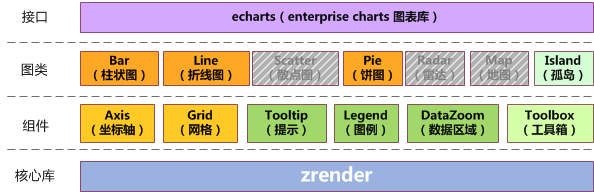
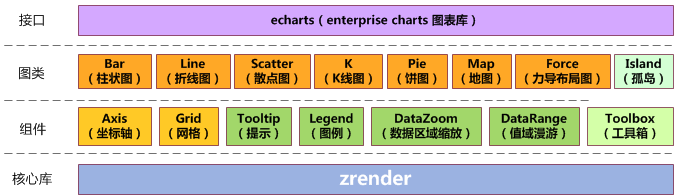
for 1.1.0 changelog update

diff --git a/index.html b/index.html
@@ -71,8 +71,8 @@
           <div class="container">
             <div class="carousel-caption">
               <h1>ECharts</h1>
-              <h6>（1.0.0）</h6>
-              <p>基于Canvas，纯Javascript图表库，提供直观，生动，可交互，可个性化定制的数据可视化图表。创新的拖拽重计算、数据视图等特性大大增强了用户体验，赋予了用户对数据进行挖掘、整合的能力。</p>
+              <h6>（1.1.0 <a href="doc/changelog.html" target="_blank" class="link">Changelog</a>）</h6>
+              <p>基于Canvas，纯Javascript图表库，提供直观，生动，可交互，可个性化定制的数据可视化图表。创新的拖拽重计算、数据视图、值域漫游等特性大大增强了用户体验，赋予了用户对数据进行挖掘、整合的能力。</p>
               <p style="text-align: right;"><strong>———— 大数据时代，重新定义数据图表的时候到了</strong></p>
             </div>
           </div>
@@ -104,7 +104,7 @@
             <img src="doc/asset/img/architecture.png" />
         </div>
         <p class="lead">ECharts (Enterprise Charts 商业产品图表库)</p>
-        <p>提供商业产品常用图表库，底层基于<a href="http://ecomfe.github.io/zrender/" target="_blank">ZRender</a>，创建了坐标系，图例，提示，工具箱等基础组件，并在此上构建出折线图（区域图）、柱状图（条状图）、饼图（环形图），同时支持任意维度的堆积和多图表混合展现。</p>
+        <p>提供商业产品常用图表库，底层基于<a href="http://ecomfe.github.io/zrender/" target="_blank">ZRender</a>，创建了坐标系，图例，提示，工具箱等基础组件，并在此上构建出折线图（区域图）、柱状图（条状图）、散点图（气泡图）、K线图、饼图（环形图）、地图、力导布局图，同时支持任意维度的堆积和多图表混合展现。</p>
         <div style="float:left;margin:10px 10px 30px 10px;"><img src="doc/asset/img/device.png" /></div>
         <div>
             <img src="doc/asset/img/explorer.png" />
@@ -118,10 +118,9 @@
             <img src="doc/asset/img/mix.jpg" />
         </div>
         <h2 class="featurette-heading">混搭</h2>
-        <p>标准图库支持3种基本图表类型及其任意混搭：</p>
-        <p>折线图line（包含区域图）、柱状图bar（包含横向条状图）、饼图pie。</p>
-        <p>（散点图scatter、雷达图radar，暂不提供）</p>
-        <p>混搭情况下一个标准图表：包含唯一图例模块，一个直角坐标系（可包含一条或多条类目轴线，一条或多条值轴线，最多上下左右四条）</p>
+        <p>混搭的图表会更具表现力也更有有趣味，ECharts提供的图表（共7类11种）支持任意混搭：</p>
+        <p>折线图（区域图）、柱状图（条状图）、散点图（气泡图）、K线图、<br/>饼图（环形图）、地图、力导布局图。</p>
+        <p>混搭情况下一个标准图表：包含唯一图例、工具箱、数据区域缩放、值域漫游模块，一个直角坐标系（可包含一条或多条类目轴线，一条或多条值轴线，最多上下左右四条）</p>
       </div>
       <hr class="featurette-divider">
       <div class="featurette">
@@ -156,6 +155,7 @@
             <img src="doc/asset/img/legendSelected.gif" />
         </div>
         <h2 class="featurette-heading">图例开关</h2>
+        <p>多系列数据的同时展现呈现出丰富内容，但如何让用户切换到他所关心的个别系列上？</p>
         <p>ECharts提供了方便快捷的图例开关，可以随时切换到你所关心的数据系列。</p>
       </div>
       <hr class="featurette-divider">
@@ -168,12 +168,30 @@
       </div>
       <hr class="featurette-divider">
       <div class="featurette">
+        <div class="span5 pull-left">
+            <img src="doc/asset/img/dataRange.gif" />
+        </div>
+        <h2 class="featurette-heading">值域漫游</h2>
+        <p>基于坐标的图表（如地图、散点图）通过色彩变化表现数值的大小能直观形象的展示数据分布。</p>
+        <p>但如何聚焦到我所关心的数值上？我们创造了称为值域漫游的功能，让你可以轻松进行数值筛选。</p>
+      </div>
+      <hr class="featurette-divider">
+      <div class="featurette">
+          <div class="span5 pull-right">
+            <img src="doc/asset/img/scatter.gif" />
+        </div>
+        <h2 class="featurette-heading">大规模散点图</h2>
+        <p>如何展现成千上百万的离散数据从而找出他们的分布和聚类？貌似除了用专业的统计工具（如MATLAB）外别无选择？</p>
+        <p>不，ECharts发明了基于像素的大规模散点图，一个900 x 400的散点区域就能够毫不重复的呈现35万组数据，这对于常规的应用，用现代浏览器就足以轻松展现百万级的散点数据！</p>
+      </div>
+      <hr class="featurette-divider">
+      <div class="featurette">
         <div class="span6 pull-left">
             <img src="doc/asset/img/mark.gif" />
         </div>
         <h2 class="featurette-heading">标线辅助</h2>
-        <p>趋势线？平均线？未来走势？修正值？有需求用户自然知道用意~</p>
-        <p>提供标线辅助在K线图中可是必要的功能！是的，K线图我们正在开发中~</p>
+        <p>趋势线？平均线？上升通道？支持位？专业的你自然知道该怎么用</p>
+        <p>提供标线辅助在K线图中可是必要的功能！当然，ECharts中的任何图标都可以使用。</p>
       </div>
       <hr class="featurette-divider">
       <div class="featurette">
@@ -206,7 +224,7 @@
       <!-- FOOTER -->
       <footer>
         <p class="pull-right"><a href="#">Back to top</a></p>
-        <p>&copy; 2013 Ecom-FE. &middot; <a href="#">Privacy</a> &middot; <a href="#">Terms</a></p>
+        <p>&copy; 2013 ECOM-FE &middot; <a href="https://github.com/ecomfe/echarts/blob/master/LICENSE.txt" target="_blank">Terms</a> &middot; <a href="doc/changelog.html" target="_blank" class="link">Changelog</a></p>
       </footer>
 
     </div><!-- /.container -->

diff --git a/doc/changelog.html b/doc/changelog.html
@@ -1,0 +1,110 @@
+<!DOCTYPE html>
+<html lang="en">
+  <head>
+    <meta charset="utf-8">
+    <title>ECharts</title>
+    <meta name="viewport" content="width=device-width, initial-scale=1.0">
+    <meta name="description" content="ECharts">
+    <meta name="author" content="linzhifeng@baidu.com">
+
+    <script src="asset/js/esl/esl.js"></script>
+
+    <!-- Le styles -->
+    <link href="asset/css/bootstrap.css" rel="stylesheet">
+    <link href="asset/css/bootstrap-responsive.css" rel="stylesheet">
+    <link href="asset/css/echartsHome.css" rel="stylesheet">
+
+    <!-- Fav and touch icons -->
+    <link rel="shortcut icon" href="asset/ico/favicon.png">
+  </head>
+
+  <body>
+
+    <!-- NAVBAR
+    ================================================== -->
+    <div class="navbar navbar-inverse navbar-fixed-top">
+      <div class="navbar-inner">
+        <div class="container">
+          <button type="button" class="btn btn-navbar" data-toggle="collapse" data-target=".nav-collapse">
+            <span class="icon-bar"></span>
+            <span class="icon-bar"></span>
+            <span class="icon-bar"></span>
+          </button>
+          <a class="brand" href="../index.html">ECharts</a>
+          <div class="nav-collapse collapse">
+              <a id="forkme_banner" href="https://github.com/ecomfe/echarts">View on GitHub</a>
+              <ul class="nav">
+                <li><a href="../index.html"><i class="icon-home icon-white"></i> Home</a></li>
+                <li class="active"><a href="example.html" class="active">Example</a></li>
+                <li><a href="doc.html" >API &amp; Doc</a></li>
+                <li class="dropdown">
+                  <a href="#" class="dropdown-toggle" data-toggle="dropdown"><i class="icon-download-alt icon-white"></i>Download <b class="caret"></b></a>
+                  <ul class="dropdown-menu">
+                    <li><a href="https://github.com/ecomfe/echarts/archive/1.0.0.zip">ZIP (1.0.0)</a></li>
+                    <li><a href="https://github.com/ecomfe/echarts/archive/master.zip">ZIP (Latest)</a></li>
+                  </ul>
+                </li>
+                <li class="dropdown">
+                  <a href="#" class="dropdown-toggle" data-toggle="dropdown">Link <b class="caret"></b></a>
+                  <ul class="dropdown-menu">
+                    <li><a href="https://github.com/ecomfe" target="_blank">Ecom-FE</a></li>
+                    <li><a href="http://fe.baidu.com/doc/ecom/tech/topic/dv/index.html" target="_blank">Data Visualization</a></li>
+                    <li class="divider"></li>
+                    <!--li class="nav-header">Library</li-->
+                    <li><a href="http://ecomfe.github.io/zrender/index.html" target="_blank">ZRender</a></li>
+                    <li><a href="http://tangram.baidu.com/" target="_blank">Tangram</a></li>
+                  </ul>
+                </li>
+              </ul>
+           </div><!--/.nav-collapse -->
+        </div><!-- /.container -->
+      </div><!-- /.navbar-inner -->
+    </div><!-- /.navbar-wrapper -->
+
+    <div class="container">
+        <h2>修改记录</h2>
+        <div class="row-fluid">
+            <div>
+                <h3>1.0.0</h3>
+                <ul>
+                    <li>ddd</li>
+                    <li>ddd</li>
+                    <li>ddd</li>
+                </ul>
+            </div>
+            <div>
+                <h3>1.0.0</h3>
+                <ul>
+                    <li>ddd</li>
+                    <li>ddd</li>
+                    <li>ddd</li>
+                </ul>
+            </div>
+        </div>
+      <hr>
+      <footer>
+        <p class="pull-right"><a href="#">Back to top</a></p>
+        <p>&copy; 2013 ECOM-FE &middot; <a href="https://github.com/ecomfe/echarts/blob/master/LICENSE.txt" target="_blank">Terms</a> &middot; <a href="doc/changelog.html" target="_blank" class="link">Changelog</a></p>
+      </footer>
+
+    </div> <!-- /container -->
+
+    <!-- Le javascript
+    ================================================== -->
+    <!-- Placed at the end of the document so the pages load faster -->
+    <script src="asset/js/jquery.js"></script>
+    <script src="asset/js/bootstrap-transition.js"></script>
+    <script src="asset/js/bootstrap-alert.js"></script>
+    <script src="asset/js/bootstrap-modal.js"></script>
+    <script src="asset/js/bootstrap-dropdown.js"></script>
+    <script src="asset/js/bootstrap-scrollspy.js"></script>
+    <script src="asset/js/bootstrap-tab.js"></script>
+    <script src="asset/js/bootstrap-tooltip.js"></script>
+    <script src="asset/js/bootstrap-popover.js"></script>
+    <script src="asset/js/bootstrap-button.js"></script>
+    <script src="asset/js/bootstrap-collapse.js"></script>
+    <script src="asset/js/bootstrap-carousel.js"></script>
+    <script src="asset/js/bootstrap-typeahead.js"></script>
+
+  </body>
+</html>

diff --git a/doc/doc.html b/doc/doc.html
@@ -152,7 +152,7 @@
                 </p>
                 <div id="doc">
                     <h3>简介<a name="简介"> </a></h3>
-                    <p>ECharts，纯Javascript图表库，基于Canvas，底层依赖<a href="http://ecomfe.github.io/zrender/" target="_blank">ZRender</a>，商业产品常用图表库，提供直观，生动，可交互，可个性化定制的数据统计图表。创新的拖拽重计算、数据视图等特性大大增强了用户体验，赋予了用户对数据进行挖掘、整合的能力。图表类型支持折线图（区域图）、柱状图（条状图）、饼图（环形图），同时支持任意维度的堆积和多图表混合展现。</P>
+                    <p>ECharts，纯Javascript图表库，基于Canvas，底层依赖<a href="http://ecomfe.github.io/zrender/" target="_blank">ZRender</a>，商业产品常用图表库，提供直观，生动，可交互，可个性化定制的数据统计图表。创新的拖拽重计算、数据视图、值域漫游等特性大大增强了用户体验，赋予了用户对数据进行挖掘、整合的能力。图表类型支持折线图（区域图）、柱状图（条状图）、饼图（环形图），同时支持任意维度的堆积和多图表混合展现。</P>
                     <img src="asset/img/architecture.png" />
                     <h3>名词解析<a name="名词解析"> </a></h3>
                     <p>基本名词</p>
@@ -1604,6 +1604,11 @@ feature : {
                             <td> 标签显示位置，可选为：'outer'（外部） | 'inner'（内部），地图标签不可指定位置</td>
                         </tr>
                         <tr>
+                            <td> {string | Function} formatter </td>
+                            <td> null </td>
+                            <td> 标签文本格式器，仅饼图支持，同<a href="#Tooltip" title="">Tooltip.formatter</a>，不支持回调</td>
+                        </tr>
+                        <tr>
                             <td> {Object} textStyle </td>
                             <td> null </td>
                             <td> 标签的文本样式（详见<a href="#TextStyle" title="">textStyle</a>） </td>
@@ -1940,7 +1945,7 @@ myChart.dispose();
         <!-- FOOTER -->
         <footer>
           <p class="pull-right"><a href="#">Back to top</a></p>
-          <p>&copy; 2013 Ecom-FE. &middot; <a href="#">Privacy</a> &middot; <a href="#">Terms</a></p>
+          <p>&copy; 2013 ECOM-FE &middot; <a href="https://github.com/ecomfe/echarts/blob/master/LICENSE.txt" target="_blank">Terms</a> &middot; <a href="doc/changelog.html" target="_blank" class="link">Changelog</a></p>
         </footer>
     </div><!--/.fluid-container-->
 

diff --git a/doc/example.html b/doc/example.html
@@ -218,22 +218,22 @@
             </div>
         </div>
         <hr>
-        <h1>混合</h1>
+        <h1>混搭</h1>
         <div class="row-fluid">
             <div class="span12">
                 <div class="span4">
                   <a href="example/mix1.html"><img src="asset/img/example/mix1.png"></a>
-                  <p>折线图与柱状图混合，双数值轴。</p>
+                  <p>折线图与柱状图混搭，双数值轴。</p>
                   <p><a class="btn" href="example/mix1.html">View details &raquo;</a></p>
                 </div><!--/span-->
                 <div class="span4">
                   <a href="example/mix2.html"><img src="asset/img/example/mix2.png"></a>
-                  <p>柱状图与饼图混合。</p>
+                  <p>柱状图与饼图混搭。</p>
                   <p><a class="btn" href="example/mix2.html">View details &raquo;</a></p>
                 </div><!--/span-->
                 <div class="span4">
                   <a href="example/mix3.html"><img src="asset/img/example/mix3.png"></a>
-                  <p>地图与饼图混合，地图同时作为地域选择器。</p>
+                  <p>地图与饼图混搭，地图同时作为地域选择器。</p>
                   <p><a class="btn" href="example/mix3.html">View details &raquo;</a></p>
                 </div><!--/span-->
             </div>
@@ -344,7 +344,7 @@
       <hr>
       <footer>
         <p class="pull-right"><a href="#">Back to top</a></p>
-        <p>&copy; 2013 Ecom-FE. &middot; <a href="#">Privacy</a> &middot; <a href="#">Terms</a></p>
+        <p>&copy; 2013 ECOM-FE &middot; <a href="https://github.com/ecomfe/echarts/blob/master/LICENSE.txt" target="_blank">Terms</a> &middot; <a href="doc/changelog.html" target="_blank" class="link">Changelog</a></p>
       </footer>
 
     </div> <!-- /container -->

diff --git a/doc/example/map2.html b/doc/example/map2.html
@@ -117,7 +117,7 @@ myChart.on(ecConfig.EVENT.MAP_SELECTED, function(param){
         <!-- FOOTER -->
         <footer>
           <p class="pull-right"><a href="#">Back to top</a></p>
-          <p>&copy; 2013 Ecom-FE. &middot; <a href="#">Privacy</a> &middot; <a href="#">Terms</a></p>
+          <p>&copy; 2013 ECOM-FE &middot; <a href="https://github.com/ecomfe/echarts/blob/master/LICENSE.txt" target="_blank">Terms</a> &middot; <a href="doc/changelog.html" target="_blank" class="link">Changelog</a></p>
         </footer>
     </div><!--/.fluid-container-->
 

diff --git a/doc/example/mix3.html b/doc/example/mix3.html
@@ -198,7 +198,7 @@ myChart.on(ecConfig.EVENT.MAP_SELECTED, function(param){
         <!-- FOOTER -->
         <footer>
           <p class="pull-right"><a href="#">Back to top</a></p>
-          <p>&copy; 2013 Ecom-FE. &middot; <a href="#">Privacy</a> &middot; <a href="#">Terms</a></p>
+          <p>&copy; 2013 ECOM-FE &middot; <a href="https://github.com/ecomfe/echarts/blob/master/LICENSE.txt" target="_blank">Terms</a> &middot; <a href="doc/changelog.html" target="_blank" class="link">Changelog</a></p>
         </footer>
     </div><!--/.fluid-container-->
 

diff --git a/doc/example/pie3.html b/doc/example/pie3.html
@@ -156,7 +156,7 @@ myChart.on(ecConfig.EVENT.PIE_SELECTED, function(param){
         <!-- FOOTER -->
         <footer>
           <p class="pull-right"><a href="#">Back to top</a></p>
-          <p>&copy; 2013 Ecom-FE. &middot; <a href="#">Privacy</a> &middot; <a href="#">Terms</a></p>
+          <p>&copy; 2013 ECOM-FE &middot; <a href="https://github.com/ecomfe/echarts/blob/master/LICENSE.txt" target="_blank">Terms</a> &middot; <a href="doc/changelog.html" target="_blank" class="link">Changelog</a></p>
         </footer>
     </div><!--/.fluid-container-->
 

diff --git a/doc/example/loading.html b/doc/example/loading.html
@@ -107,7 +107,7 @@ loadingTicket = setTimeout(function(){
         <!-- FOOTER -->
         <footer>
           <p class="pull-right"><a href="#">Back to top</a></p>
-          <p>&copy; 2013 Ecom-FE. &middot; <a href="#">Privacy</a> &middot; <a href="#">Terms</a></p>
+          <p>&copy; 2013 ECOM-FE &middot; <a href="https://github.com/ecomfe/echarts/blob/master/LICENSE.txt" target="_blank">Terms</a> &middot; <a href="doc/changelog.html" target="_blank" class="link">Changelog</a></p>
         </footer>
     </div><!--/.fluid-container-->
 

diff --git a/doc/example/event.html b/doc/example/event.html
@@ -169,7 +169,7 @@ for (var e in ecConfig.EVENT) {
         <!-- FOOTER -->
         <footer>
           <p class="pull-right"><a href="#">Back to top</a></p>
-          <p>&copy; 2013 Ecom-FE. &middot; <a href="#">Privacy</a> &middot; <a href="#">Terms</a></p>
+          <p>&copy; 2013 ECOM-FE &middot; <a href="https://github.com/ecomfe/echarts/blob/master/LICENSE.txt" target="_blank">Terms</a> &middot; <a href="doc/changelog.html" target="_blank" class="link">Changelog</a></p>
         </footer>
     </div><!--/.fluid-container-->
 

diff --git a/doc/example/lasagna.html b/doc/example/lasagna.html
@@ -153,7 +153,7 @@ setTimeout(function(){
         <!-- FOOTER -->
         <footer>
           <p class="pull-right"><a href="#">Back to top</a></p>
-          <p>&copy; 2013 Ecom-FE. &middot; <a href="#">Privacy</a> &middot; <a href="#">Terms</a></p>
+          <p>&copy; 2013 ECOM-FE &middot; <a href="https://github.com/ecomfe/echarts/blob/master/LICENSE.txt" target="_blank">Terms</a> &middot; <a href="doc/changelog.html" target="_blank" class="link">Changelog</a></p>
         </footer>
     </div><!--/.fluid-container-->
 

diff --git a/doc/example/axis.html b/doc/example/axis.html
@@ -266,7 +266,7 @@ option = {
         <!-- FOOTER -->
         <footer>
           <p class="pull-right"><a href="#">Back to top</a></p>
-          <p>&copy; 2013 Ecom-FE. &middot; <a href="#">Privacy</a> &middot; <a href="#">Terms</a></p>
+          <p>&copy; 2013 ECOM-FE &middot; <a href="https://github.com/ecomfe/echarts/blob/master/LICENSE.txt" target="_blank">Terms</a> &middot; <a href="doc/changelog.html" target="_blank" class="link">Changelog</a></p>
         </footer>
     </div><!--/.fluid-container-->
 

diff --git a/doc/example/bar.html b/doc/example/bar.html
@@ -192,7 +192,7 @@ option = {
         <!-- FOOTER -->
         <footer>
           <p class="pull-right"><a href="#">Back to top</a></p>
-          <p>&copy; 2013 Ecom-FE. &middot; <a href="#">Privacy</a> &middot; <a href="#">Terms</a></p>
+          <p>&copy; 2013 ECOM-FE &middot; <a href="https://github.com/ecomfe/echarts/blob/master/LICENSE.txt" target="_blank">Terms</a> &middot; <a href="doc/changelog.html" target="_blank" class="link">Changelog</a></p>
         </footer>
     </div><!--/.fluid-container-->
 
